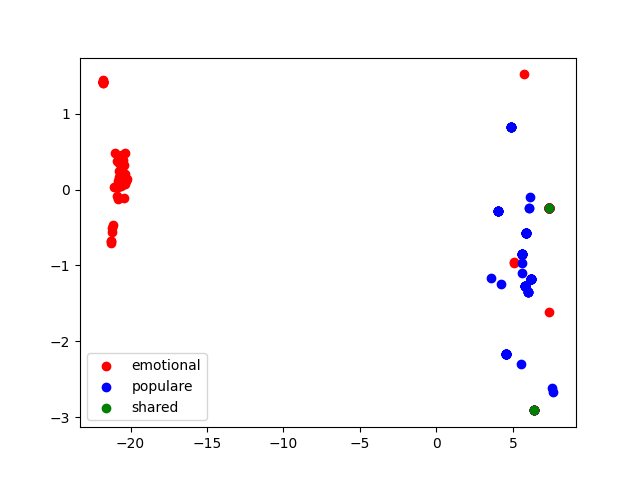
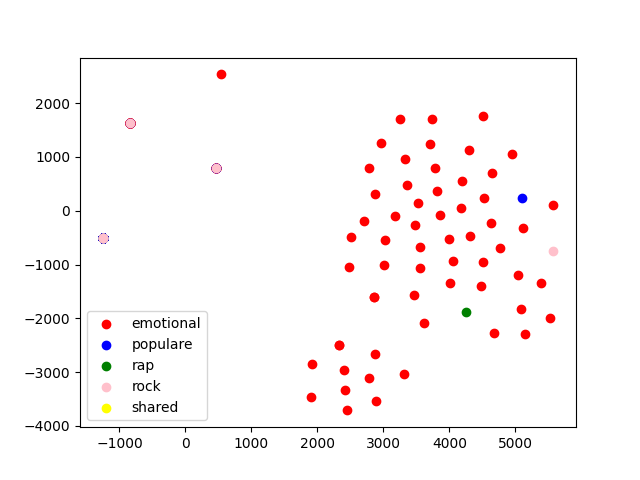
more embeddings and reading

diff --git a/applied/openai-embeddings-test/plot.py b/applied/openai-embeddings-test/plot.py
@@ -11,7 +11,7 @@ def get_path_files():
     path = {}
     path_colors = {}
 
-    colors = ["red", "blue", "green"]
+    colors = ["red", "blue", "green", "pink", "yellow"]
 
 
     for index, i in enumerate(os.environ["playlists"].split(",")+ ["shared="]):
@@ -53,7 +53,11 @@ def get_tracks():
 
     positions_tracks = {}
 #    tsne = TSNE(random_state=1, n_iter=15000, metric="cosine", init='random', learning_rate='auto')
-    tsne = TSNE(random_state=1, metric="cosine", init='random', learning_rate='auto')
+#    tsne = TSNE(random_state=1, metric="cosine", init='random', learning_rate='auto')
+#    tsne = TSNE(random_state=1, metric="cosine", init='random', learning_rate='auto')
+    # allegedly I was using the values wrong, but I don't think so
+    # http://web.archive.org/web/20200108213532/https://towardsdatascience.com/why-you-are-using-t-sne-wrong-502412aab0c0?gi=8382eea29b7d
+    tsne = TSNE(n_components=2, verbose=1, n_iter=10_000, learning_rate='auto')
     embedding_position = tsne.fit_transform(np.asarray(prediction))
 
     for track_id, position in zip(track_ids, embedding_position):
@@ -70,6 +74,9 @@ def plot_embeddings():
         x = []
         y = []
         for i in tracks:
+            # skip all known tracks
+            if not i in positions_tracks:
+                continue
             x.append(positions_tracks[i][0])    
             y.append(positions_tracks[i][1])    
         ax.scatter(x, y, color=path_colors[playlist], label=playlist)

diff --git a/applied/openai-embeddings-test/spotify.py b/applied/openai-embeddings-test/spotify.py
@@ -16,8 +16,6 @@ def get_lyrics(track_id):
     try:
         response = requests.get(
             f"https://spclient.wg.spotify.com/color-lyrics/v2/track/{track_id}?format=json&vocalRemoval=false&market=from_token",
-            # https://spclient.wg.spotify.com/metadata/4/track/b2e8920eea2e4b01beb5dc90ab0a2e52?market=from_token
-            # https://spclient.wg.spotify.com/color-lyrics/v2/track/5rAUZy2eDdegBxUVYxePK2/image/https%3A%2F%2Fi.scdn.co%2Fimage%2Fab67616d0000b27346557fdc7325844aa2177155?format=json&vocalRemoval=false&market=from_token
             headers={
                 'User-Agent': 'Mozilla/5.0 (Macintosh; Intel Mac OS X 10.15; rv:125.0) Gecko/20100101 Firefox/125.0',
                 'Accept': 'application/json',
@@ -59,7 +57,7 @@ if __name__ == "__main__":
     offset = 0
     crawled = 0
     playlist_entries = []
-    while crawled < 10:
+    while crawled <= 10:
         items = get_playlist(playlist_id, offset)["items"]
       #  print(items)
         for i in items:

diff --git a/notes/transformers.md b/notes/transformers.md
@@ -6,10 +6,26 @@ Use dilated attention to be scale up.
 [tweet](https://twitter.com/giffmana/status/1676864336764055552?s=12)
 
 ### [Transformer-based World Models Are Happy With 100k Interactions](https://arxiv.org/pdf/2303.07109.pdf)
-- TODO ? 
+- Transformer
+  - Inputs
+    - (reward if index > 0)
+    - Latent representation of the observation
+    - Action
+  - Output
+    - Deterministic hidden state
+  - Final output
+    - Reward
+    - Gamma
+    - Next latent state
+- The observation comes from an autoencoder.
+  - This is based on DreamerV2
+- Transformer-XL
+- Actor and critic policy is trained on top of this imaginary trajectory.
 
 ### [Transformers are Sample Efficient World Models](https://arxiv.org/pdf/2209.00588.pdf)
-- TODO ? 
+[Source code](https://github.com/eloialonso/iris)
+
+- This is the same idea as in [Transformer-based World Models Are Happy With 100k Interactions](https://arxiv.org/pdf/2303.07109.pdf)
 
 ### [GLU Variants Improve Transformer](https://arxiv.org/pdf/2002.05202v1.pdf)
 - [Gated linear units](https://paperswithcode.com/method/glu)

diff --git a/notes/model-scale/training_Compute-Optimal_Large_Language_Models.md b/notes/model-scale/training_Compute-Optimal_Large_Language_Models.md
@@ -1,4 +1,4 @@
-[Training Compute-Optimal Large Language Models](https://arxiv.org/pdf/2203.15556.pdf)
+## [Training Compute-Optimal Large Language Models](https://arxiv.org/pdf/2203.15556.pdf)
 - Investigates how to scale a (transformer) model for a given compute budget. They believe that most models are undertrained because models have been scaled without also scaling up the data
 - They believe that if you double the model parameters, you should also double the amount of tokens you train on.
 - To verify the hypothesis they train a model based on the prediction they have. The results is that by having less parameters than other models, but more data they are able to outperform other famous models like GPT-3 on various evaluation tasks.

diff --git a/notes/model-scale/transcending_scaling_laws_with_01_extra_compute.md b/notes/model-scale/transcending_scaling_laws_with_01_extra_compute.md
@@ -1,0 +1,11 @@
+## [Transcending Scaling Laws with 0.1% Extra Compute](https://arxiv.org/pdf/2210.11399)
+- Figure 1 shows quite the difference 
+  - There is a 4.4 million TPUv4 hours difference between when U-PaLM reaches the same accuracy as PaLM on the NLP tasks they tested on
+- Training
+  - Same data aas for PaLM
+  - PrefixLM architecture for U-PaLM
+- Where does the 0.1% extra compute come from ? 
+  - The UL2 training objective mixture
+  - UL2R-(estore) is the name of the method
+
+

diff --git a/notes/llm.md b/notes/llm.md
@@ -714,3 +714,12 @@ timal multimodal performance and retain strong text performance."
 - "This work releases OpenELM, a decoder-only transformer-based open language model."
 - 
 
+### [Training LLMs over Neurally Compressed Text](https://arxiv.org/pdf/2404.03626)
+- Use compression to get longer context windows
+- Arithmetic Coding does not work
+- Equal-Info Windows does work
+  - One model learns to compress the text
+  - One model is trained on the compressed text
+- 
+
+
